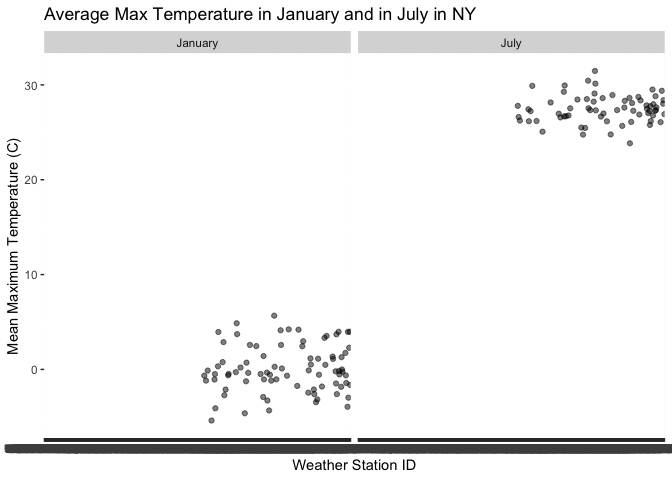
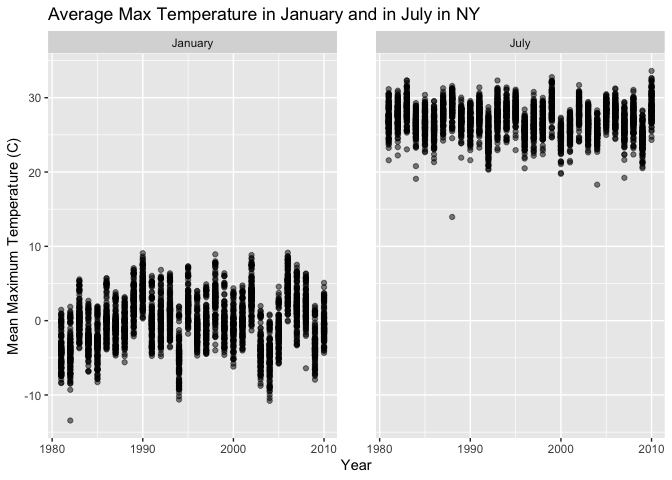
final knit

diff --git a/p8015_hw3_zi2125.md b/p8015_hw3_zi2125.md
@@ -21,6 +21,8 @@ library(tidyverse)
 
 ``` r
 library(p8105.datasets)
+library(patchwork)
+library(ggridges)
 data("instacart")
 ```
 
@@ -273,11 +275,23 @@ for each day.
 
 ``` r
 accel_df %>% 
-  ggplot(aes(x = minute, y = activity)) +
-  geom_point(aes(color = day)) 
+  ggplot(aes(x = minute, y = activity, color = factor(day))) +
+  geom_line() +
+  labs(
+    title = "Accelerometer Activity over Time",
+    x = "minute of the Day",
+    y = "Activity"
+  ) 
 ```
 
 ![](p8015_hw3_zi2125_files/figure-gfm/unnamed-chunk-8-1.png)<!-- -->
+
+The graph shows that there seems to be more consistently higher levels
+of activity on Thursdays and Sundays. Even though Wedenesday shows the
+consistently lowest levels of activity, there is one Wednesday where the
+max level of activity was recorded. On Fridays, he tends to be more
+active later in the day while on Thursday and Sunday, he is more active
+earlier in the day.
 
 ### Problem 3
 
@@ -339,29 +353,159 @@ month.labs <- c("January", "July")
 names(month.labs) <- as.numeric(c("1", "7"))
 
 noaa_df %>% 
-  group_by(id, month) %>% 
+  group_by(id, year, month) %>% 
   filter(month == 1 | month == 7, na.rm = TRUE) %>% 
   summarize(
     mean_tmax = mean(tmax)
   )  %>% 
-  ggplot(aes(x = id, y = mean_tmax)) + 
+  ggplot(aes(x = year, y = mean_tmax, group = id)) + 
     geom_point(alpha = .5) +
+    geom_smooth() +
     facet_grid(. ~ month,
                labeller = labeller(month = month.labs)) +
+  theme(panel.spacing = unit(2, "lines")) +
   labs(
     title = "Average Max Temperature in January and in July in NY",
-    x = "Weather Station ID",
+    x = "Year",
     y = "Mean Maximum Temperature (C)"
   )
 ```
 
-    ## `summarise()` regrouping output by 'id' (override with `.groups` argument)
+    ## `summarise()` regrouping output by 'id', 'year' (override with `.groups` argument)
 
-    ## Warning: Removed 1186 rows containing missing values (geom_point).
+    ## `geom_smooth()` using method = 'loess' and formula 'y ~ x'
+
+    ## Warning: Removed 7058 rows containing non-finite values (stat_smooth).
+
+    ## Warning in simpleLoess(y, x, w, span, degree = degree, parametric =
+    ## parametric, : Chernobyl! trL>n 6
+    
+    ## Warning in simpleLoess(y, x, w, span, degree = degree, parametric =
+    ## parametric, : Chernobyl! trL>n 6
+
+    ## Warning in sqrt(sum.squares/one.delta): NaNs produced
+
+    ## Warning in stats::qt(level/2 + 0.5, pred$df): NaNs produced
+
+    ## Warning in simpleLoess(y, x, w, span, degree = degree, parametric =
+    ## parametric, : span too small. fewer data values than degrees of freedom.
+
+    ## Warning in simpleLoess(y, x, w, span, degree = degree, parametric =
+    ## parametric, : at 2009
+
+    ## Warning in simpleLoess(y, x, w, span, degree = degree, parametric =
+    ## parametric, : radius 2.5e-05
+
+    ## Warning in simpleLoess(y, x, w, span, degree = degree, parametric =
+    ## parametric, : all data on boundary of neighborhood. make span bigger
+
+    ## Warning in simpleLoess(y, x, w, span, degree = degree, parametric =
+    ## parametric, : pseudoinverse used at 2009
+
+    ## Warning in simpleLoess(y, x, w, span, degree = degree, parametric =
+    ## parametric, : neighborhood radius 0.005
+
+    ## Warning in simpleLoess(y, x, w, span, degree = degree, parametric =
+    ## parametric, : reciprocal condition number 1
+
+    ## Warning in simpleLoess(y, x, w, span, degree = degree, parametric =
+    ## parametric, : at 2010
+
+    ## Warning in simpleLoess(y, x, w, span, degree = degree, parametric =
+    ## parametric, : radius 2.5e-05
+
+    ## Warning in simpleLoess(y, x, w, span, degree = degree, parametric =
+    ## parametric, : all data on boundary of neighborhood. make span bigger
+
+    ## Warning in simpleLoess(y, x, w, span, degree = degree, parametric =
+    ## parametric, : There are other near singularities as well. 2.5e-05
+
+    ## Warning in simpleLoess(y, x, w, span, degree = degree, parametric =
+    ## parametric, : zero-width neighborhood. make span bigger
+    
+    ## Warning in simpleLoess(y, x, w, span, degree = degree, parametric =
+    ## parametric, : zero-width neighborhood. make span bigger
+
+    ## Warning: Computation failed in `stat_smooth()`:
+    ## NA/NaN/Inf in foreign function call (arg 5)
+
+    ## Warning in simpleLoess(y, x, w, span, degree = degree, parametric =
+    ## parametric, : span too small. fewer data values than degrees of freedom.
+
+    ## Warning in simpleLoess(y, x, w, span, degree = degree, parametric =
+    ## parametric, : at 1987
+
+    ## Warning in simpleLoess(y, x, w, span, degree = degree, parametric =
+    ## parametric, : radius 2.5e-05
+
+    ## Warning in simpleLoess(y, x, w, span, degree = degree, parametric =
+    ## parametric, : all data on boundary of neighborhood. make span bigger
+
+    ## Warning in simpleLoess(y, x, w, span, degree = degree, parametric =
+    ## parametric, : pseudoinverse used at 1987
+
+    ## Warning in simpleLoess(y, x, w, span, degree = degree, parametric =
+    ## parametric, : neighborhood radius 0.005
+
+    ## Warning in simpleLoess(y, x, w, span, degree = degree, parametric =
+    ## parametric, : reciprocal condition number 1
+
+    ## Warning in simpleLoess(y, x, w, span, degree = degree, parametric =
+    ## parametric, : at 1988
+
+    ## Warning in simpleLoess(y, x, w, span, degree = degree, parametric =
+    ## parametric, : radius 2.5e-05
+
+    ## Warning in simpleLoess(y, x, w, span, degree = degree, parametric =
+    ## parametric, : all data on boundary of neighborhood. make span bigger
+
+    ## Warning in simpleLoess(y, x, w, span, degree = degree, parametric =
+    ## parametric, : There are other near singularities as well. 2.5e-05
+
+    ## Warning in simpleLoess(y, x, w, span, degree = degree, parametric =
+    ## parametric, : zero-width neighborhood. make span bigger
+    
+    ## Warning in simpleLoess(y, x, w, span, degree = degree, parametric =
+    ## parametric, : zero-width neighborhood. make span bigger
+
+    ## Warning: Computation failed in `stat_smooth()`:
+    ## NA/NaN/Inf in foreign function call (arg 5)
+
+    ## Warning: Removed 7058 rows containing missing values (geom_point).
 
 ![](p8015_hw3_zi2125_files/figure-gfm/unnamed-chunk-11-1.png)<!-- -->
 
 These plots show that average max temps in January are much lower than
-average max temps in July as is expected. It is also interesting to note
-that there are some weather stations that don’t have temperature data.
-There are no observable outliers in this graph.
+average max temps in July as is expected. There is one outlier in each
+graph. In January 1982 it seems there was a January that was
+significantly colder than the other years, while in July 1987, there was
+also a lower recorded temperature than usual.
+
+Next I am making a plot that shows tmax vs. tmin for the full dataset:
+
+``` r
+tmax_tmin_p = 
+  noaa_df %>% 
+  ggplot(aes(x = tmin, y = tmax)) +
+  geom_hex()
+
+snowfall_p = 
+  noaa_df %>% 
+  filter(snow > 0 & snow < 100, na.rm = TRUE) %>% 
+  group_by(year) %>% 
+  ggplot(aes(x = snow, y = year, group = year)) +
+    geom_density_ridges() +
+    labs(
+      title = "Distribution of Snowfall by Year",
+      x = "Snowfall (mm)",
+      y = "Year"
+    )
+
+(tmax_tmin_p + snowfall_p)
+```
+
+    ## Warning: Removed 1136276 rows containing non-finite values (stat_binhex).
+
+    ## Picking joint bandwidth of 3.76
+
+![](p8015_hw3_zi2125_files/figure-gfm/unnamed-chunk-12-1.png)<!-- -->
